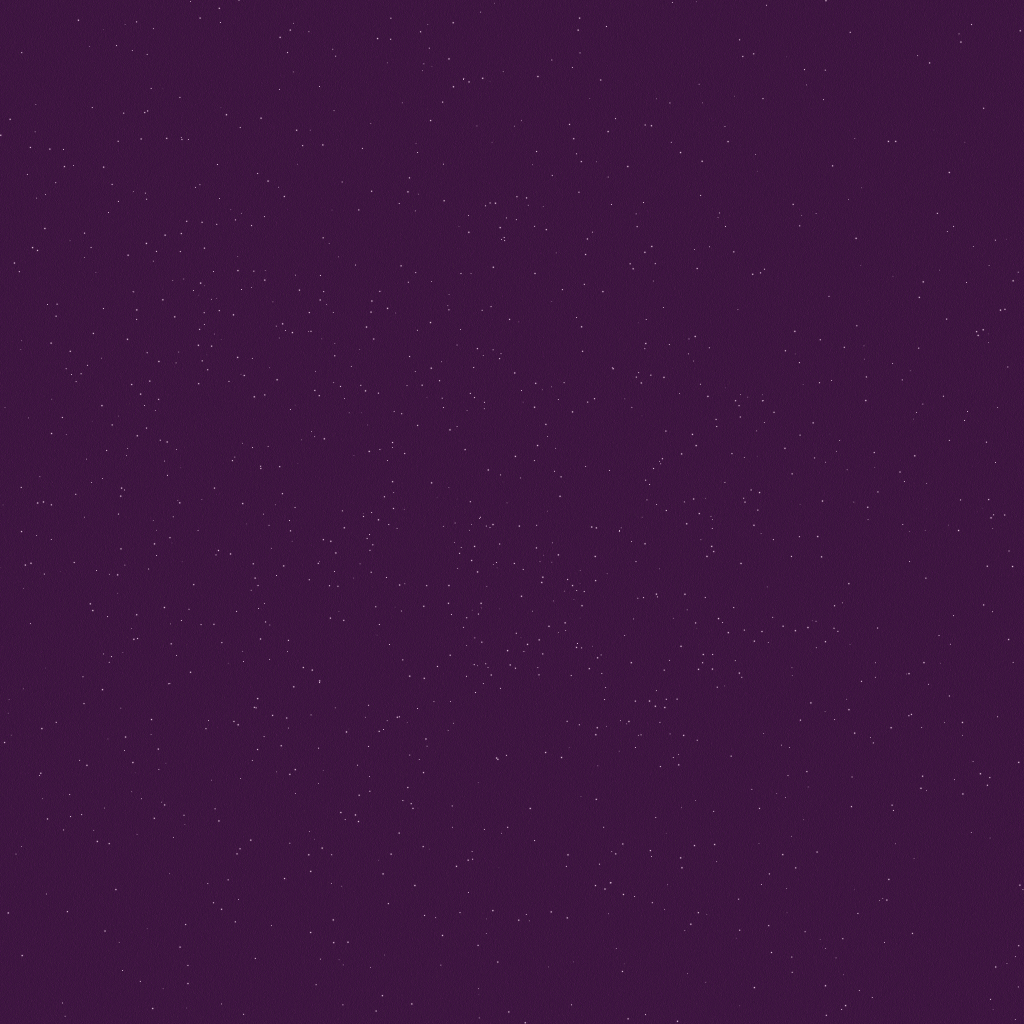
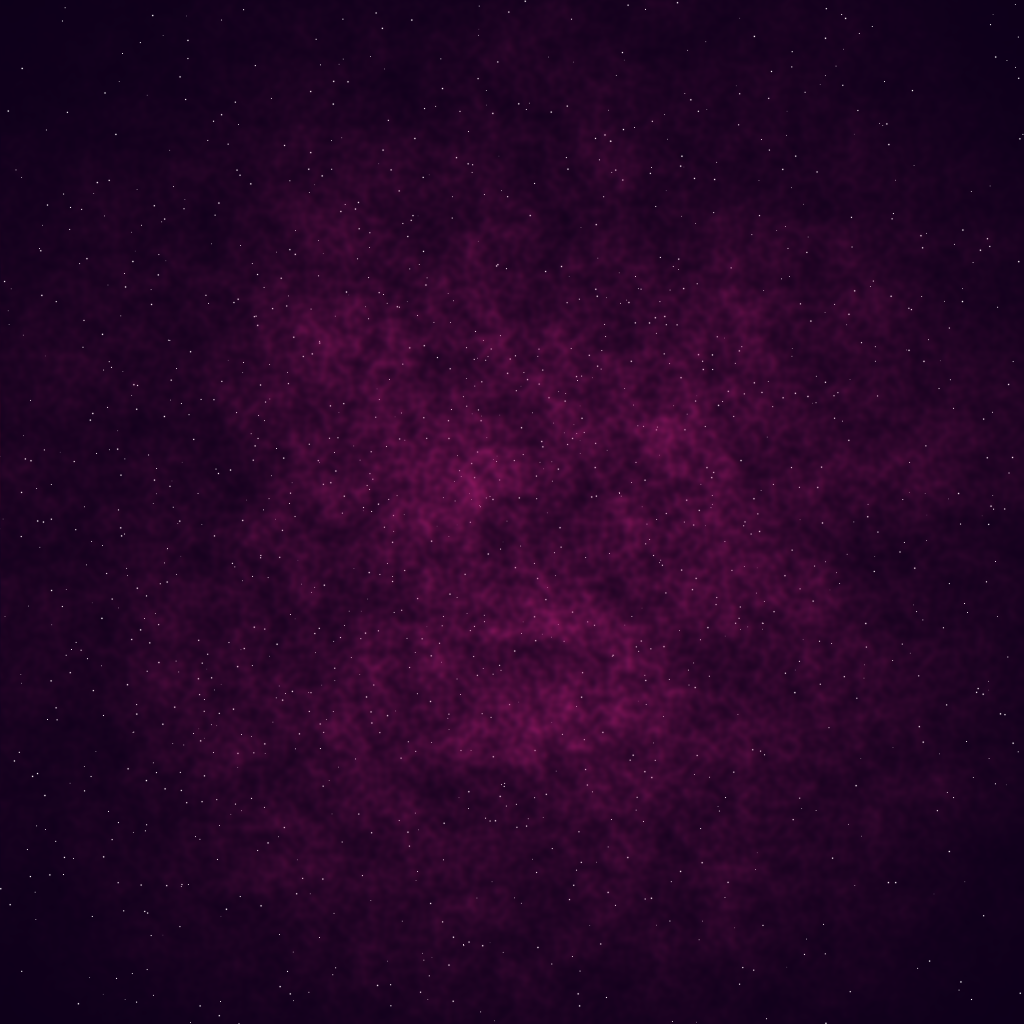
Implementing basic volume rendering shader
Former-commit-id: 438d80e1d196f459266dcc1d3cf03fc23411e87a

diff --git a/Renderer/Renderer/Main.cpp b/Renderer/Renderer/Main.cpp
@@ -19,38 +19,6 @@ namespace
     constexpr int WINDOW_HEIGHT = 1024;
 }
 
-const glm::vec3 & GetColor()
-{
-    int remainder = rand() % 4;
-    switch (remainder)
-    {
-    case 0: return RED;
-    case 1: return PURPLE;
-    case 2: return SKY;
-    case 3: return YELLOW;
-    default: return RED;
-    }
-}
-
-void GenerateImage(const std::string & file_name, 
-    Shader * compute, 
-    Shader * star,
-    const Camera * cam, 
-    const Old::Texture * tex,
-    const std::vector<Galaxy*> & universe, Window & window)
-{
-    window.StartDraw();
-    for (auto & galaxy : universe)
-        galaxy->Draw(compute, star, cam, tex);
-
-    unsigned char * pixels = new unsigned char[3 * WINDOW_WIDTH * WINDOW_HEIGHT];
-    glReadPixels(0, 0, WINDOW_WIDTH, WINDOW_HEIGHT, GL_RGB, GL_UNSIGNED_BYTE, pixels);
-    stbi_write_png(file_name.c_str(), WINDOW_WIDTH, WINDOW_HEIGHT, 3, &pixels[0], 0);
-    delete[] pixels;
-
-    window.EndDraw();
-}
-
 int main(int /*argc*/, char** /*argv*/)
 {
     Window window("OpenGL");
@@ -74,6 +42,7 @@ int main(int /*argc*/, char** /*argv*/)
     Shader particle_shader("Shaders/Particle.vs", "Shaders/Particle.fs");
     Shader star_shader("Shaders/Stars.vs", "Shaders/Stars.fs");
     Shader noise_shader("Shaders/Noise.vs", "Shaders/Noise.fs");
+    Shader volume_shader("Shaders/Volume.vs", "Shaders/Volume.fs");
     Skybox space(space_cube);
     Model sphere("Models/sphere/sphere.obj");
 
@@ -86,76 +55,58 @@ int main(int /*argc*/, char** /*argv*/)
     glBlendFunc(GL_SRC_ALPHA, GL_ONE_MINUS_SRC_ALPHA);
     glEnable(GL_PROGRAM_POINT_SIZE);
 
-    std::vector<float> stars;
-    int stars_num = 10000;
-    for (int i = 0; i < stars_num; ++i)
+    float rect[] =
     {
-        float  theta = Angle::DegToRad(static_cast<float>(rand() % 18000) / 100.f);
-        float phi = Angle::DegToRad(static_cast<float>(rand() % 36000) / 100.f);
-
-        float z = 50 * cos(theta);
-        float sin_theta = sin(theta);
-        float x = 50 * sin_theta * cos(phi);
-        float y = 50 * sin_theta * sin(phi);
-
-        stars.push_back(x);
-        stars.push_back(y);
-        stars.push_back(z);
-    }
-
-    unsigned int vao;
-    glGenVertexArrays(1, &vao);
-    glBindVertexArray(vao);
-
-    unsigned int vbo;
-    glGenBuffers(1, &vbo);
-    glBindBuffer(GL_ARRAY_BUFFER, vbo);
-    glBufferData(GL_ARRAY_BUFFER, stars.size() * sizeof(float), stars.data(), GL_STATIC_DRAW);
-
-    glVertexAttribPointer(0, 3, GL_FLOAT, GL_FALSE, sizeof(float) * 3, 0);
-    glEnableVertexAttribArray(0);
-    particle_tex.BindTexture();
-
-    bool first_iteration = true;
-
-    float rect[] = 
-    {
-        -1.f, 1.f, 0.f, 0.f, 1.f,
-        1.f, 1.f, 0.f, 1.f, 1.f,
-        1.f, -1.f, 0.f, 1.f, 0.f,
-        -1.f, 1.f, 0.f, 0.f, 1.f,
-        1.f, -1.f, 0.f, 1.f, 0.f,
-        -1.f, -1.f, 0.f, 0.f, 0.f
+        0.f, 0.f, 0.f,  0.f, 0.f, 0.f,
+        1.f, 0.f, 0.f,  1.f, 0.f, 0.f,
+        1.f, 1.f, 0.f,  1.f, 1.f, 0.f,
+        0.f, 1.f, 0.f,  0.f, 1.f, 0.f,
+        0.f, 0.f, 1.f,  0.f, 0.f, 1.f,
+        1.f, 0.f, 1.f,  1.f, 0.f, 1.f,
+        1.f, 1.f, 1.f,  1.f, 1.f, 1.f,
+        0.f, 1.f, 1.f,   0.f, 1.f, 1.f
     };
 
-    unsigned int rect_vao;
-    glGenVertexArrays(1, &rect_vao);
-    glBindVertexArray(rect_vao);
+    unsigned int indices[] = {
+        0, 1, 4,
+        4, 1, 5,
+        1, 2, 5,
+        5, 2, 6,
+        6, 2, 3,
+        6, 3, 7,
+        7, 3, 0,
+        7, 0, 4,
+        7, 4, 5,
+        7, 5, 6,
+        0, 2, 3,
+        0, 1, 2
+    };
 
-    unsigned int rect_vbo;
-    glGenBuffers(1, &rect_vbo);
-    glBindBuffer(GL_ARRAY_BUFFER, rect_vbo);
+    unsigned int cube_vao;
+    glGenVertexArrays(1, &cube_vao);
+    glBindVertexArray(cube_vao);
+
+    unsigned int cube_vbo;
+    glGenBuffers(1, &cube_vbo);
+    glBindBuffer(GL_ARRAY_BUFFER, cube_vbo);
     glBufferData(GL_ARRAY_BUFFER, sizeof(rect), &rect[0], GL_STATIC_DRAW);
 
-    glVertexAttribPointer(0, 3, GL_FLOAT, GL_FALSE, sizeof(float) * 5, 0);
+    unsigned int cube_ebo;
+    glGenBuffers(1, &cube_ebo);
+    glBindBuffer(GL_ELEMENT_ARRAY_BUFFER, cube_ebo);
+    glBufferData(GL_ELEMENT_ARRAY_BUFFER, sizeof(indices), &indices[0], GL_STATIC_DRAW);
+
+    glVertexAttribPointer(0, 3, GL_FLOAT, GL_FALSE, sizeof(float) * 6, 0);
     glEnableVertexAttribArray(0);
 
-    glVertexAttribPointer(1, 2, GL_FLOAT, GL_FALSE, sizeof(float) * 5, (void*)(sizeof(float) * 3));
+    glVertexAttribPointer(1, 3, GL_FLOAT, GL_FALSE, sizeof(float) * 6, (void*)(sizeof(float) * 3));
     glEnableVertexAttribArray(1);
 
-    Old::Texture star_src("Stars.png");
-    Shader nebula_shader("Shaders/Nebula.vs", "Shaders/Nebula.fs");
+    Old::Texture transfer_func("Textures/cool-warm-paraview.png");
+    transfer_func.BindTexture();
 
-    star_src.BindTexture();
-
-    PerlinNoise perlin;
-    perlin.GenerateNoiseTexture();
-    Old::Texture noise_src("PerlinNoise.png");
-
-    /////////////////////////////////////////////////////////////////////////
     PerlinNoise3D perlin3d;
-
-    ///////////////////////////////////////////////////////////////////////////
+    perlin3d.Bind();
 
     float last_tick = static_cast<float>(SDL_GetTicks()) * 0.001f;
     while (!window.IsDone())
@@ -165,18 +116,14 @@ int main(int /*argc*/, char** /*argv*/)
         window.Update(dt);
         window.StartDraw();
         /////////////////////////////////////////////////////////////////////
-        nebula_shader.Use();
+        volume_shader.Use();
+        volume_shader.SetMat4("view", cam.GetViewMatrix());
+        volume_shader.SetMat4("projection", cam.GetProjectionMatrix());
+        volume_shader.SetVec3("eye_pos", cam.GetPosition());
+        volume_shader.SetFloat("time", current_tick);
+        volume_shader.SetVec3("u_color", glm::vec3(0.2f, 0.8f, 0.2f));
 
-        glActiveTexture(GL_TEXTURE0);
-        glBindTexture(GL_TEXTURE_2D, star_src.GetTextureHandle());
-        glActiveTexture(GL_TEXTURE1);
-        glBindTexture(GL_TEXTURE_2D, noise_src.GetTextureHandle());
-
-        nebula_shader.SetInt("stars", 0);
-        nebula_shader.SetInt("noise", 1);
-        //nebula_shader.SetVec3("color", glm::vec3(0.4f, 0.1f, 0.4f));
-
-        glDrawArrays(GL_TRIANGLES, 0, 6);
+        glDrawElements(GL_TRIANGLES, 36, GL_UNSIGNED_INT, 0);
         //glDrawArrays(GL_POINTS, 0, stars_num);
 
         /////////////////////////////////////////////////////////////////////

diff --git a/Renderer/Renderer/PerlinNoise.cpp b/Renderer/Renderer/PerlinNoise.cpp
@@ -7,7 +7,7 @@
 
 namespace
 {
-    unsigned int size = 32;
+    unsigned int size = 256;
 }
 
 PerlinNoise::PerlinNoise() : table_size(size)
@@ -182,6 +182,11 @@ PerlinNoise3D::~PerlinNoise3D()
         glDeleteTextures(1, &texture_id);
 }
 
+void PerlinNoise3D::Bind() const
+{
+    glBindTexture(GL_TEXTURE_3D, texture_id);
+}
+
 glm::vec3 PerlinNoise3D::GetPoint(float x, float y, float z) const
 {
     unsigned int grid_side_length = noise_side_length / table_size;
@@ -308,13 +313,13 @@ void PerlinNoise3D::BuildTexture3D()
     glBindTexture(GL_TEXTURE_3D, texture_id);
 
     //Texture Wrapping (0 ~ 1)
-    glTexParameteri(GL_TEXTURE_2D, GL_TEXTURE_WRAP_S, GL_REPEAT);
-    glTexParameteri(GL_TEXTURE_2D, GL_TEXTURE_WRAP_T, GL_REPEAT);
-    glTexParameteri(GL_TEXTURE_2D, GL_TEXTURE_WRAP_R, GL_REPEAT);
+    glTexParameteri(GL_TEXTURE_3D, GL_TEXTURE_WRAP_S, GL_REPEAT);
+    glTexParameteri(GL_TEXTURE_3D, GL_TEXTURE_WRAP_T, GL_REPEAT);
+    glTexParameteri(GL_TEXTURE_3D, GL_TEXTURE_WRAP_R, GL_REPEAT);
 
     //Texture filtering - sampling
-    glTexParameteri(GL_TEXTURE_2D, GL_TEXTURE_MIN_FILTER, GL_LINEAR);
-    glTexParameteri(GL_TEXTURE_2D, GL_TEXTURE_MAG_FILTER, GL_LINEAR);
+    glTexParameteri(GL_TEXTURE_3D, GL_TEXTURE_MIN_FILTER, GL_LINEAR);
+    glTexParameteri(GL_TEXTURE_3D, GL_TEXTURE_MAG_FILTER, GL_LINEAR);
 
     glTexImage3D(GL_TEXTURE_3D, 0, GL_RGB, noise_side_length, noise_side_length, noise_side_length, 0, GL_RGB, GL_FLOAT, noise_data.data());
 }

diff --git a/Renderer/Renderer/Window.cpp b/Renderer/Renderer/Window.cpp
@@ -35,10 +35,10 @@ Window::Window(const std::string & title)
 
     SDL_GL_SetSwapInterval(1);
 
-    //glEnable(GL_DEPTH_TEST);
-    //glDepthFunc(GL_LESS);
+    glEnable(GL_DEPTH_TEST);
+    glDepthFunc(GL_LESS);
   
-    glClearColor(0.05f, 0.f, 0.1f, 1.f);
+    glClearColor(0.2f, 0.5f, 0.2f, 1.f);
 
     srand(unsigned(time(0)));
 }

diff --git a/Renderer/Renderer/Camera.h b/Renderer/Renderer/Camera.h
@@ -41,7 +41,7 @@ public:
 
     void KeyboardInput(float dt, const Uint8 * state)
     {
-        float move_speed = 55.f * dt;
+        float move_speed = 10.f * dt;
 
         if(state[SDL_SCANCODE_W])
             m_pos += move_speed * m_front;

diff --git a/Renderer/Renderer/PerlinNoise.h b/Renderer/Renderer/PerlinNoise.h
@@ -26,6 +26,7 @@ public:
     PerlinNoise3D();
     ~PerlinNoise3D();
 
+    void Bind() const;
     unsigned int GetTexture3DHandle() const { return texture_id; }
     unsigned int GetLength() const { return noise_side_length; }
 
